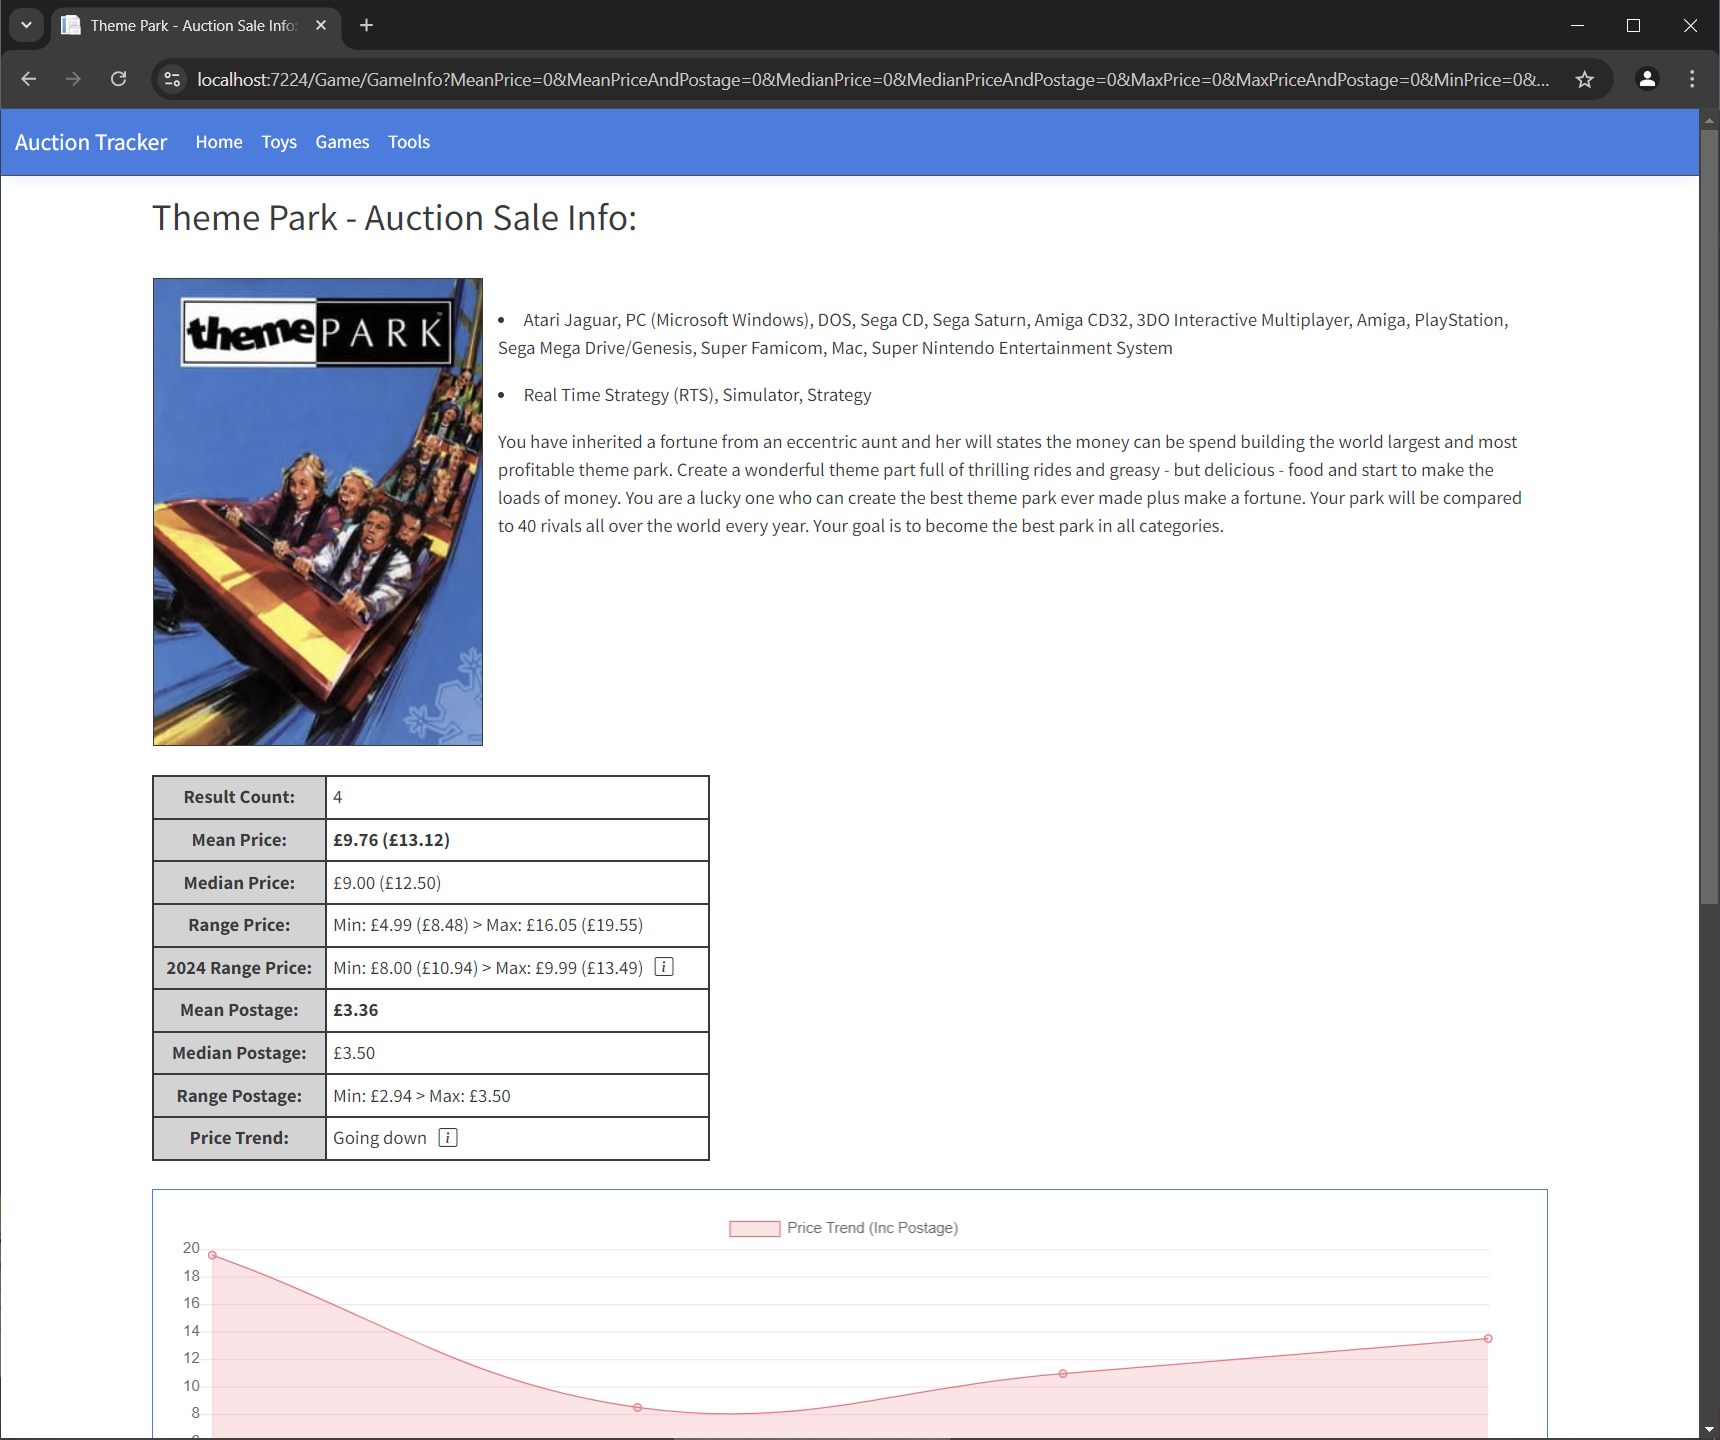
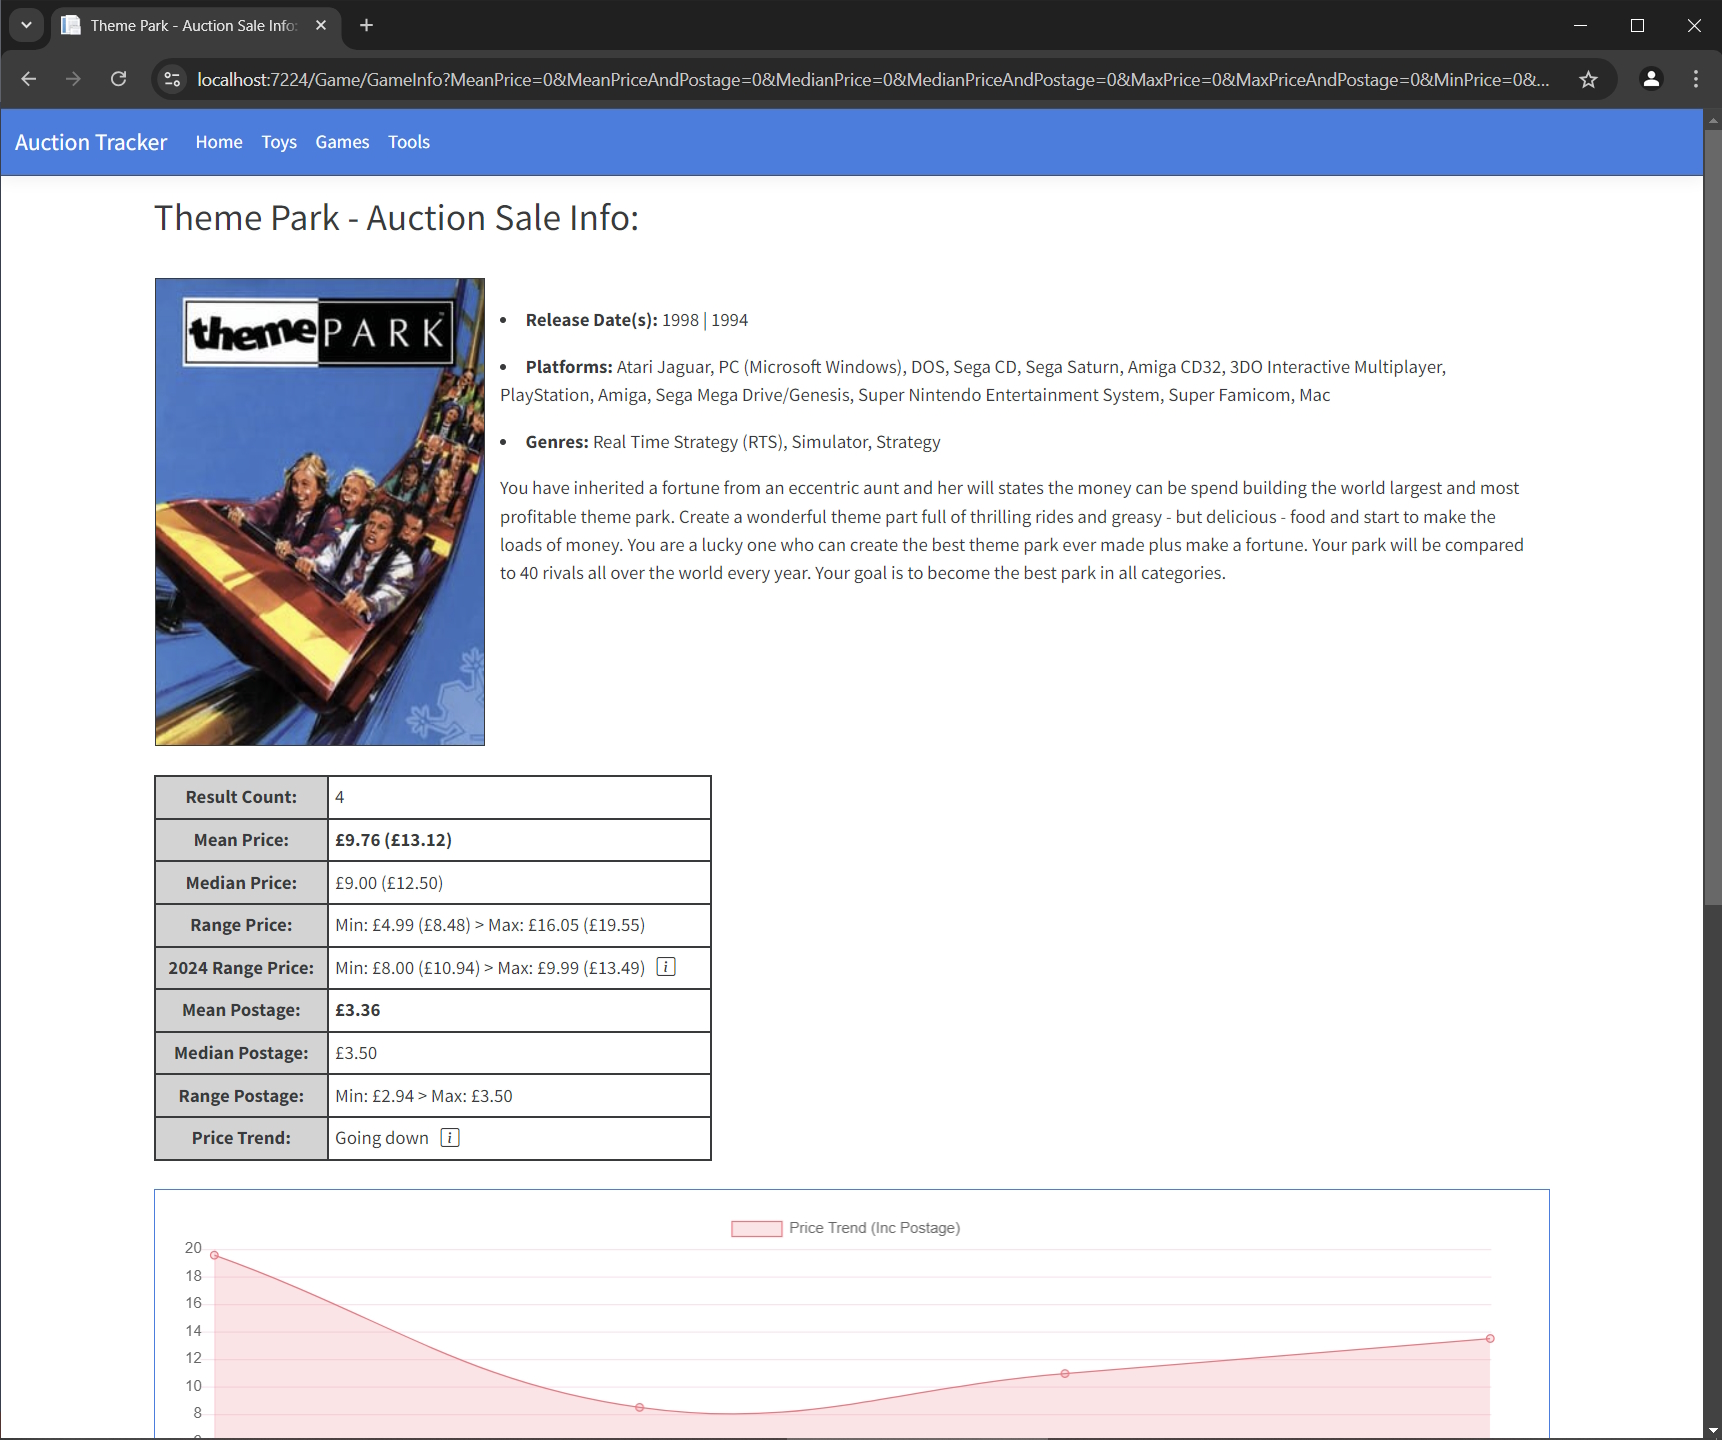
Updated IGDB API project references to pickup new capabilities.  Release date data is now shown for a game item.  Game data is now scrollable vertically should contents exceed allocated space.  Updated readme and images.

diff --git a/AuctionTracker.Web/wwwroot/css/site.css b/AuctionTracker.Web/wwwroot/css/site.css
@@ -60,7 +60,9 @@ div.igdbInfoContainer {
     width: 100%;
     height: 350px;
     word-wrap: break-word;
-    overflow: hidden;
+    overflow-x: hidden;
+    overflow-y: auto;
+    /* X axis will not scroll, Y axis will scroll if contents require it*/
 }
 
 span.highlightGreen {

diff --git a/README.md b/README.md
@@ -2,6 +2,8 @@
 eBay Auction Tracker - About:
 -----------------------------------------
 
+First created on: 04/04/2024
+
 The purpose of this project was to achieve two goals:
 
 1)
@@ -15,12 +17,12 @@ Create a programmatic solution to a spreadsheet I had been using for several yea
 Technologies / Principles Used:
 
 - C#
+- ASP.NET MVC Core
 - JavaScript
 - JQuery
-- ASP.NET MVC Core
 - CSS / Bootstrap Themes & Icons
 - Chart.js
-- REST
+- REST API
 - IGDB API (Via my own wrapper, project 'IgdbApi.Lib')
 - RestSharp
 - Newtonsoft.Json
